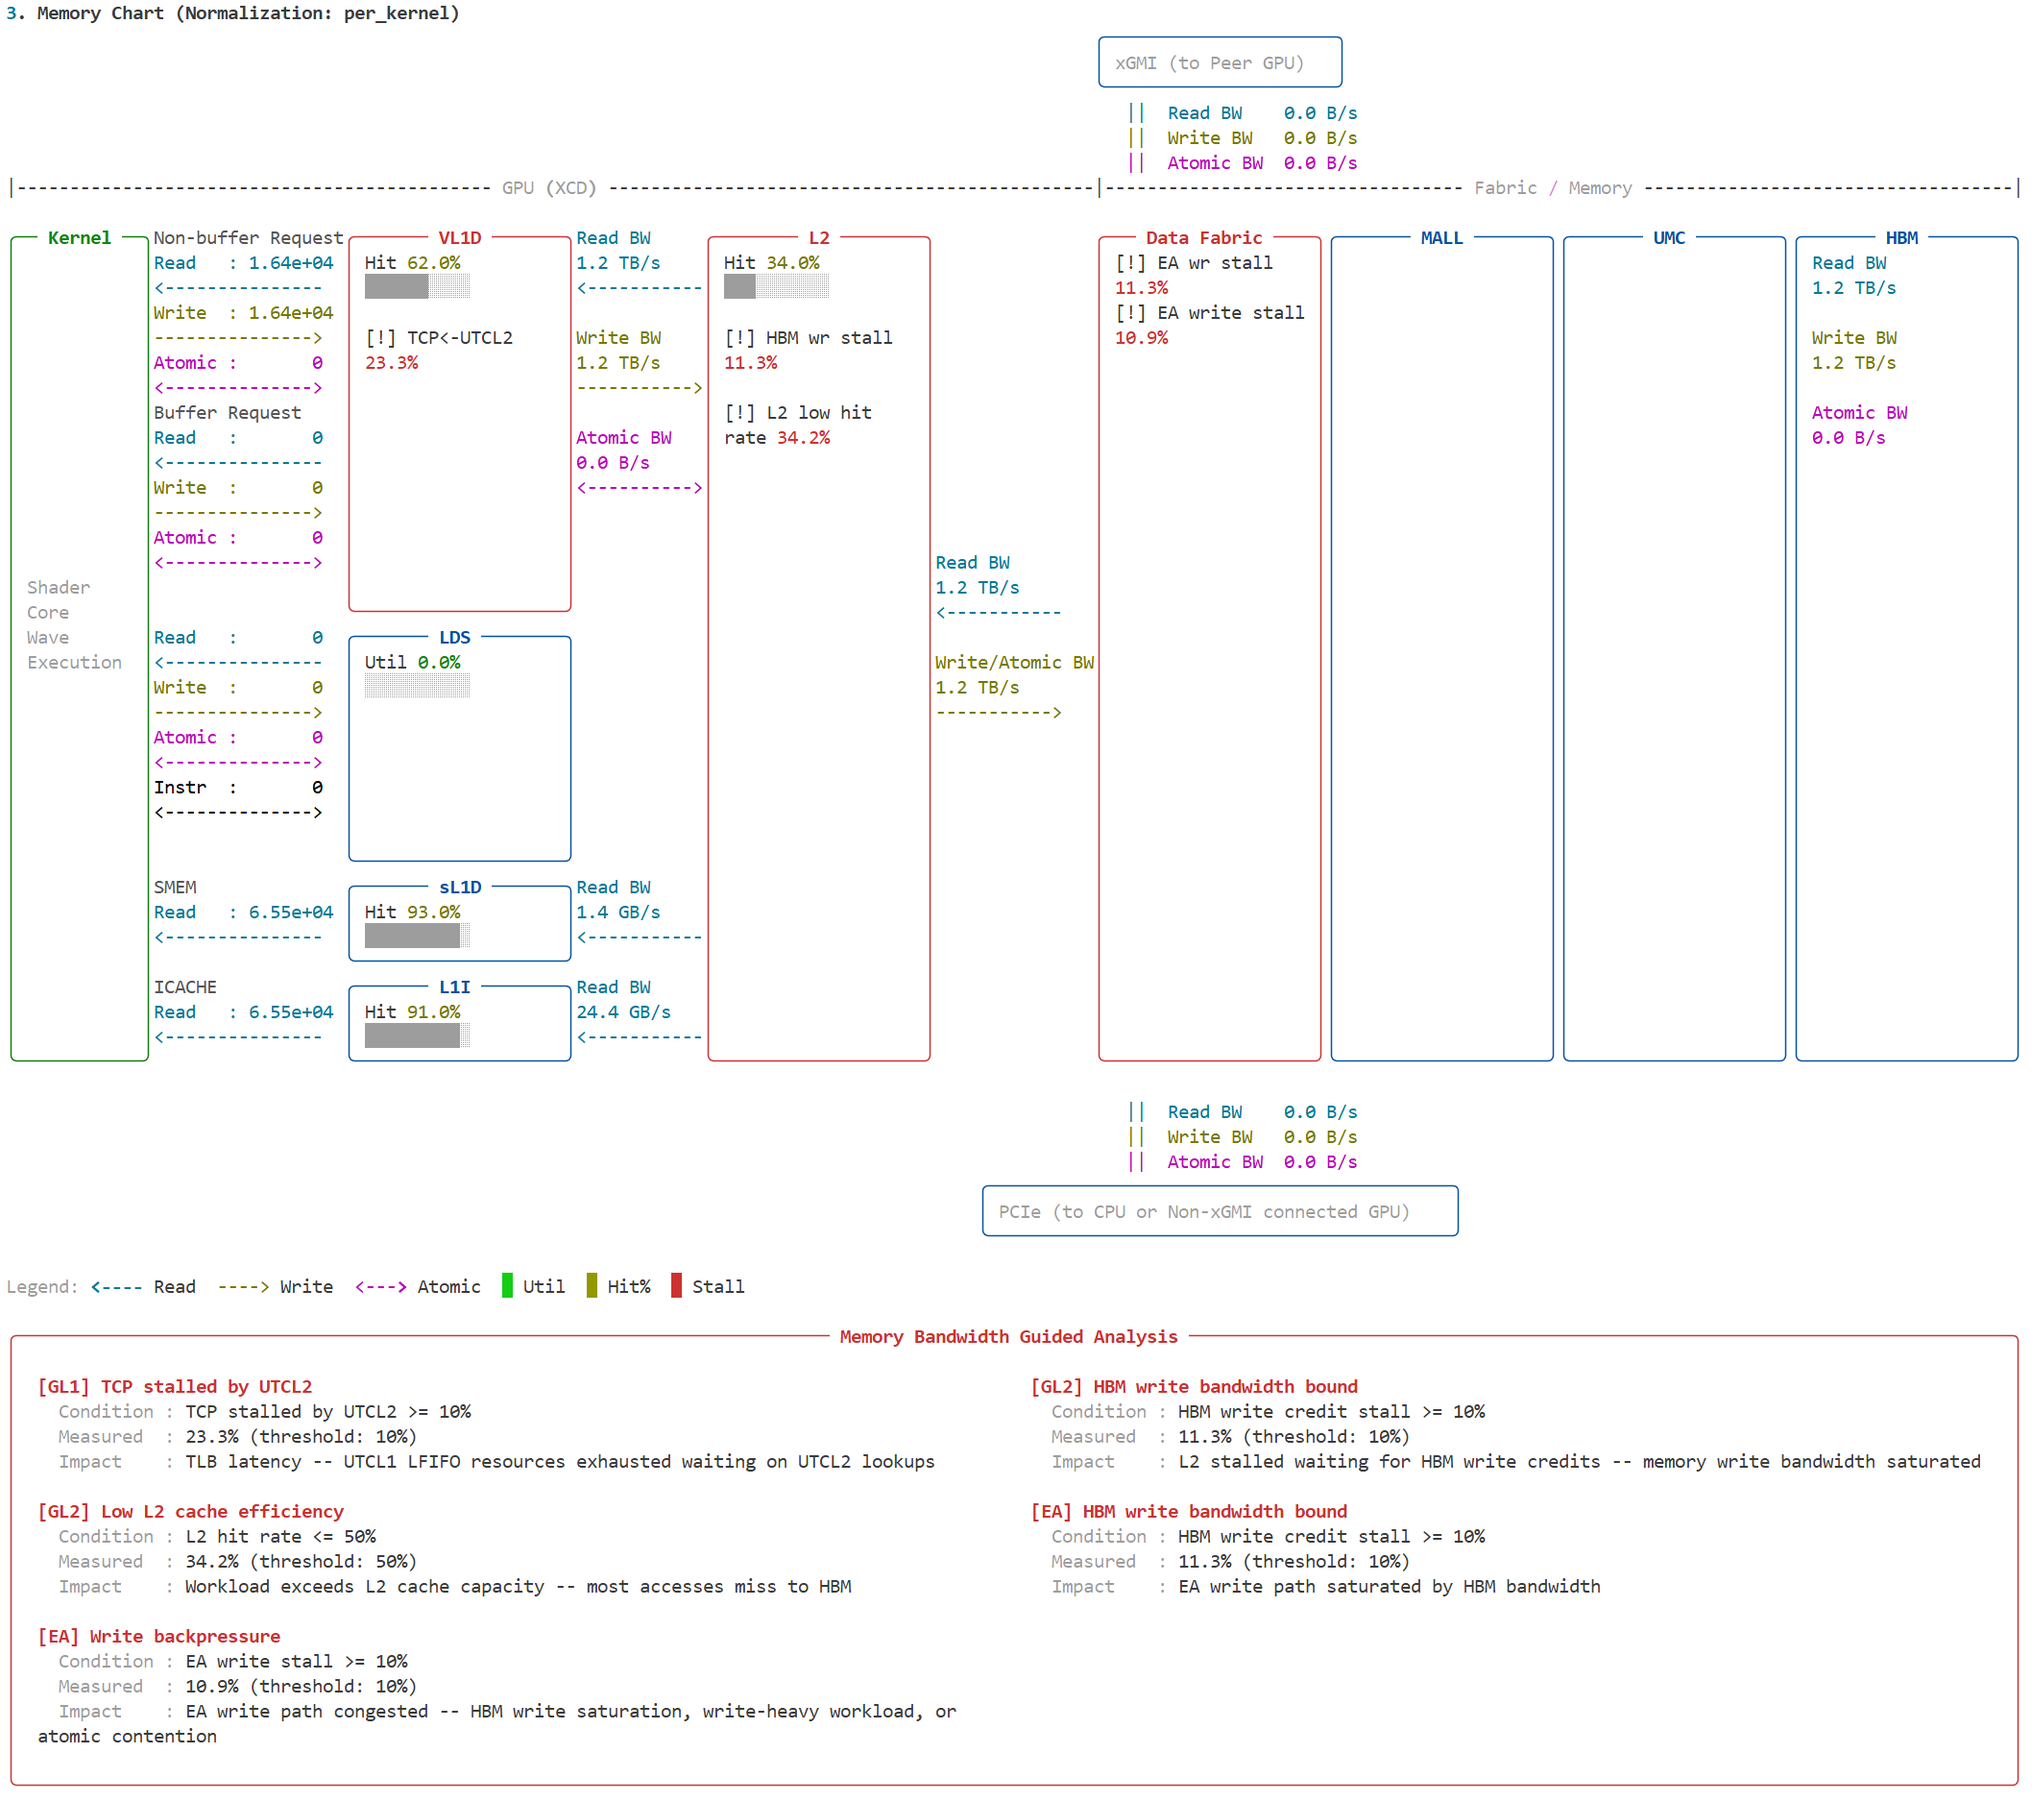
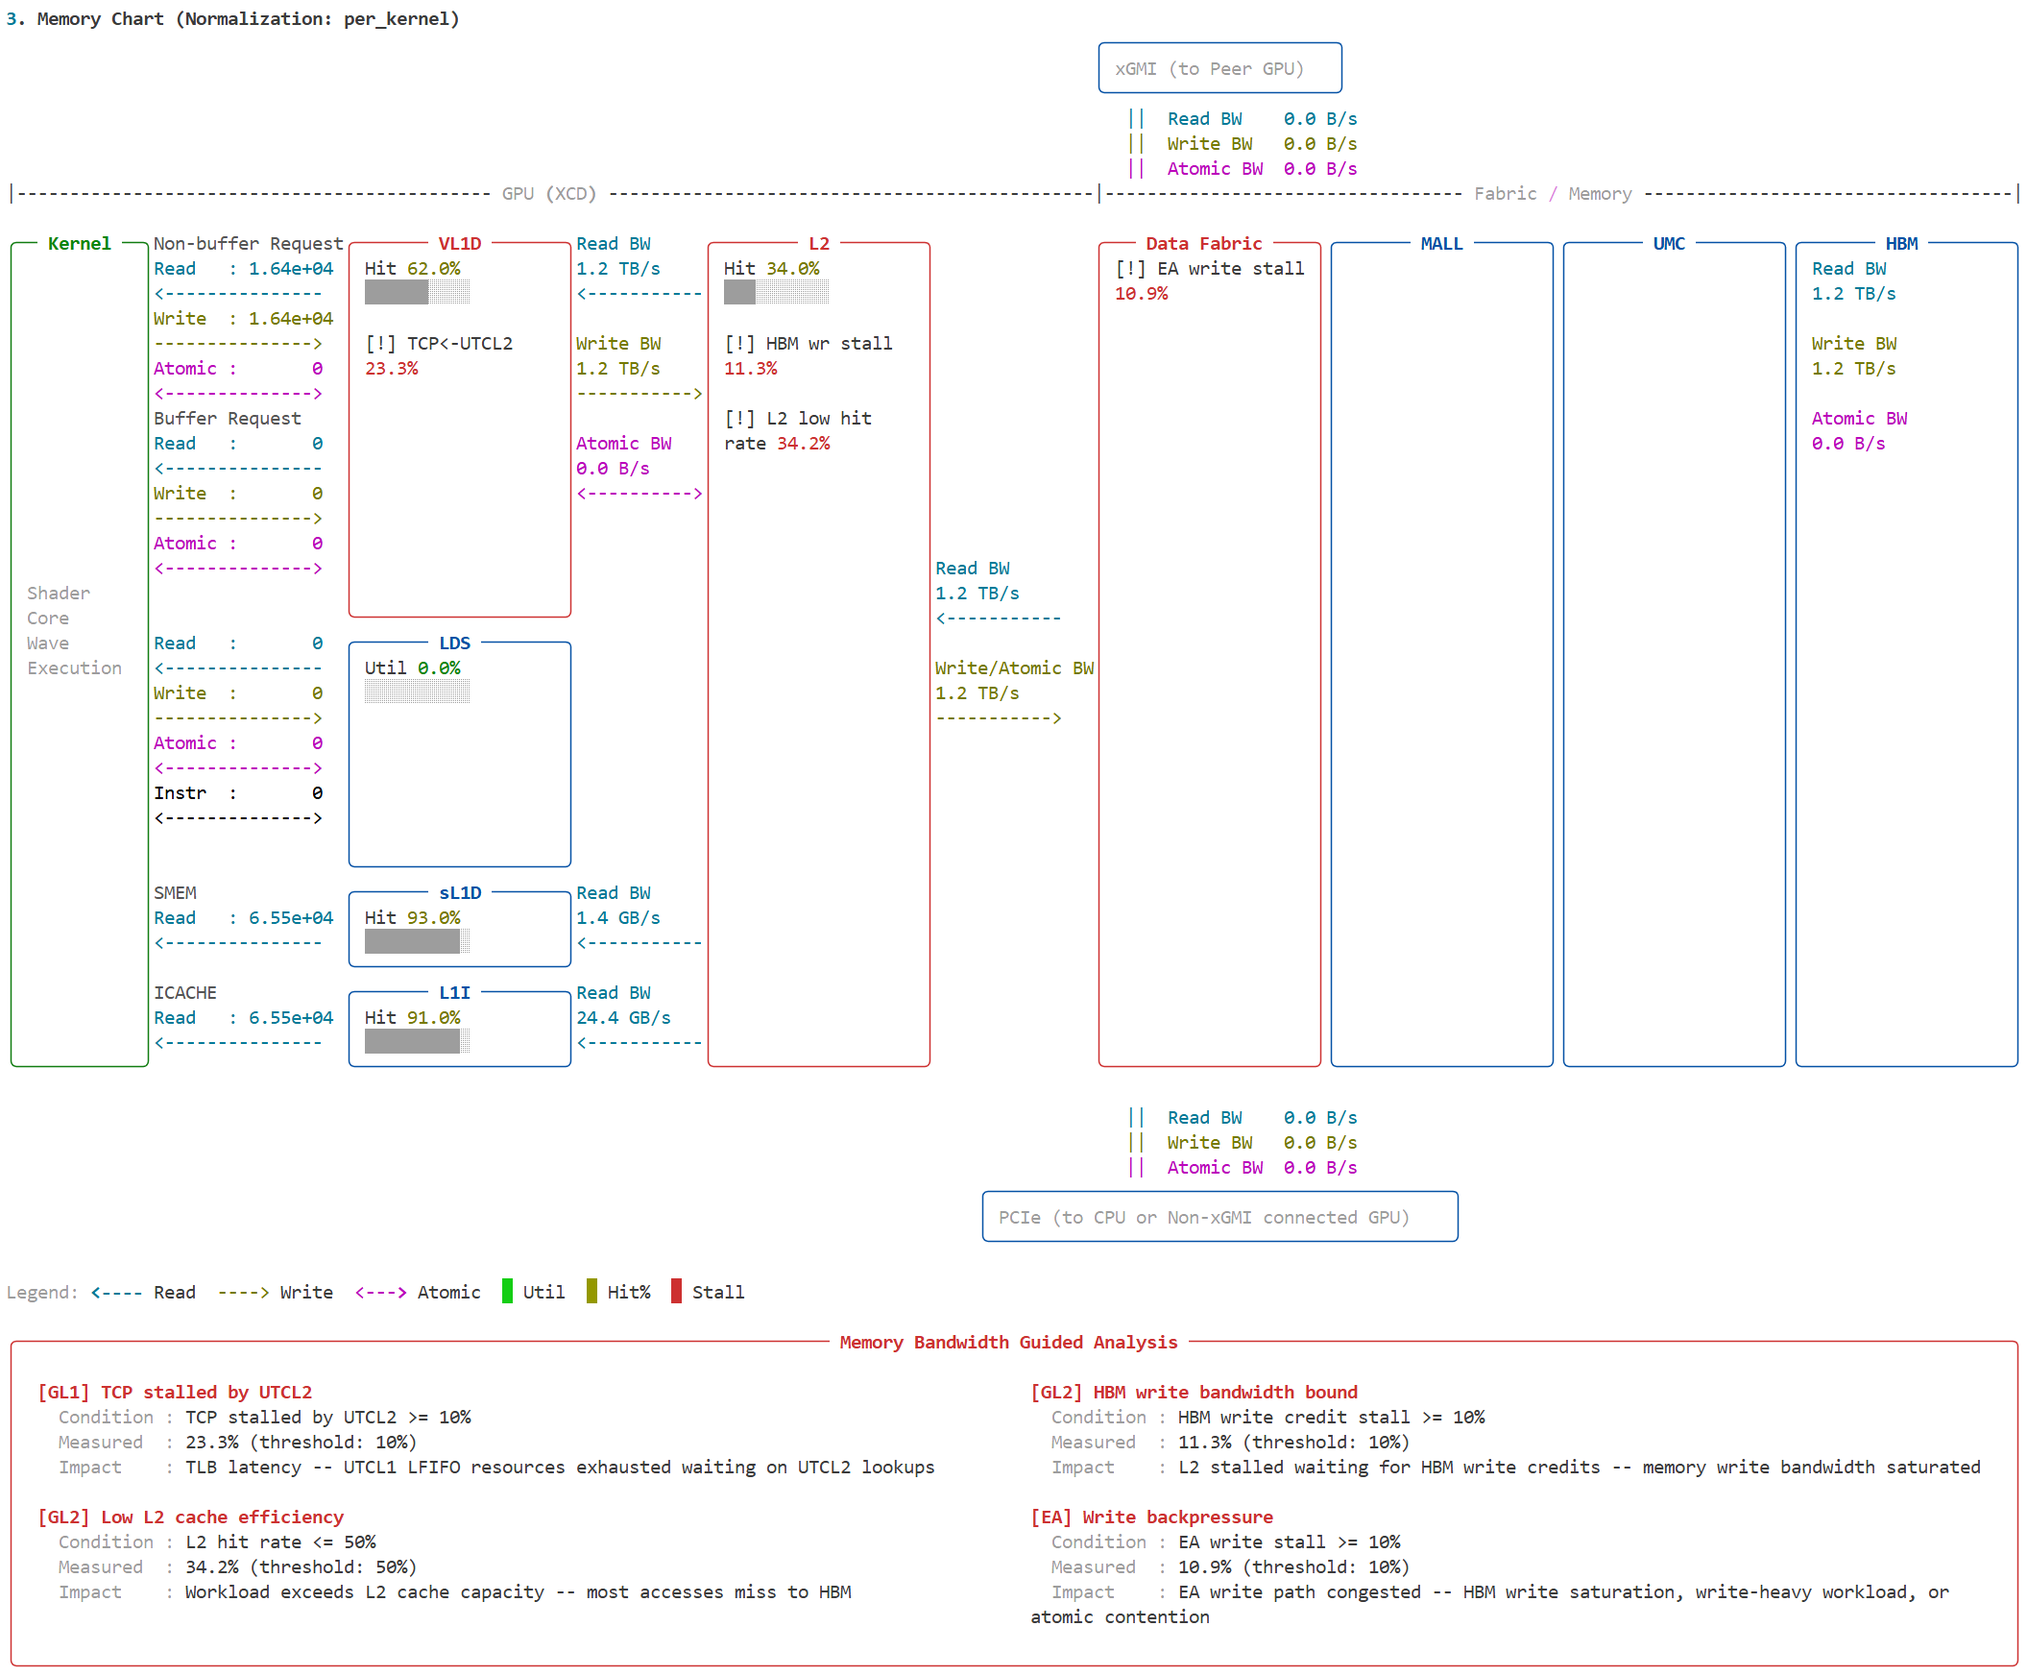
Update EA and GL2 descriptions to reflect node deduplication

diff --git a/projects/rocprofiler-compute/docs/how-to/membw_analysis.rst b/projects/rocprofiler-compute/docs/how-to/membw_analysis.rst
@@ -115,16 +115,16 @@ The analysis checks three levels of the memory hierarchy:
   backpressure, and shader core pressure (VMEM).
 * **GL2 (L2 cache)**: HBM bandwidth pressure (read, write, or
   balanced), internal resource exhaustion (latency and source FIFOs),
-  cache efficiency, and remote access (GMI).
-* **EA (Efficiency Arbiter)**: HBM bandwidth at the memory controller
-  level, GMI and PCIe path pressure, write backpressure, and atomic
-  contention.
+  cache efficiency, and GMI remote access pressure.
+* **EA (Efficiency Arbiter)**: PCIe/IO path pressure, write
+  backpressure, and HBM atomic contention.
 
 A bottleneck is reported when a stall metric exceeds its threshold
 (typically 10% of busy time). When a parent metric exceeds the
 threshold but no specific child does, a "balanced" or "other" entry
 explains that the pressure is distributed rather than concentrated in
-one path.
+one path. Multiple bottlenecks can appear together when several stall
+metrics exceed threshold simultaneously.
 
 .. note::
 
@@ -153,6 +153,8 @@ For deeper analysis beyond the guided output:
   </conceptual/cdna/l2-cache>` and :doc:`Vector L1 cache
   </conceptual/cdna/vector-l1-cache>` conceptual pages describe the
   cache hierarchy and how data moves through it.
+* **Design document**: `hld-membw-guided-analysis-in-memchart.md <https://github.com/ROCm/rocm-systems/tree/rocprofiler-compute-develop/projects/rocprofiler-compute/docs/design/hld-membw-guided-analysis-in-memchart.md>`_
+  describes the bottleneck tree structure and threshold semantics.
 
 Terminal width
 ==============
@@ -167,12 +169,10 @@ Check your terminal width with:
 
    $ tput cols
 
-Limitations
-===========
+.. note::
 
-* Only AMD Instinct MI350 Series (gfx950) is supported. Other
-  architectures will be added in future releases.
-* Guidance text is in its preliminary stages and may not cover all
-  bottleneck scenarios.
-* The analysis evaluates per-dispatch averages. Bottlenecks that occur
-  in only a subset of dispatches may not be visible.
+   * Only AMD Instinct MI350 Series (gfx950) is supported. Other architectures will be added in future releases.
+   * Guidance text is in its preliminary stages and may not cover all bottleneck scenarios.
+   * The analysis evaluates per-dispatch averages. Bottlenecks that occur in only a subset of dispatches may not be visible.
+   * Guidance output is capped at 5 blocks. Additional bottlenecks beyond the cap are noted but not expanded.
+   * When block 30 counters are missing or incomplete, the guidance panel shows "Unavailable", "Partial data", or "Inconclusive" status lines instead of bottleneck details.

diff --git a/projects/rocprofiler-compute/docs/design/hld-membw-guided-analysis-in-memchart.md b/projects/rocprofiler-compute/docs/design/hld-membw-guided-analysis-in-memchart.md
@@ -2,6 +2,7 @@
 
 **Status:** Implemented (Phase A: pipeline, Phase B: chart integration)
 **Target:** rocprofiler-compute, gfx950, analyze mode (CLI)
+**User docs:** `docs/how-to/membw_analysis.rst`
 
 ---
 
